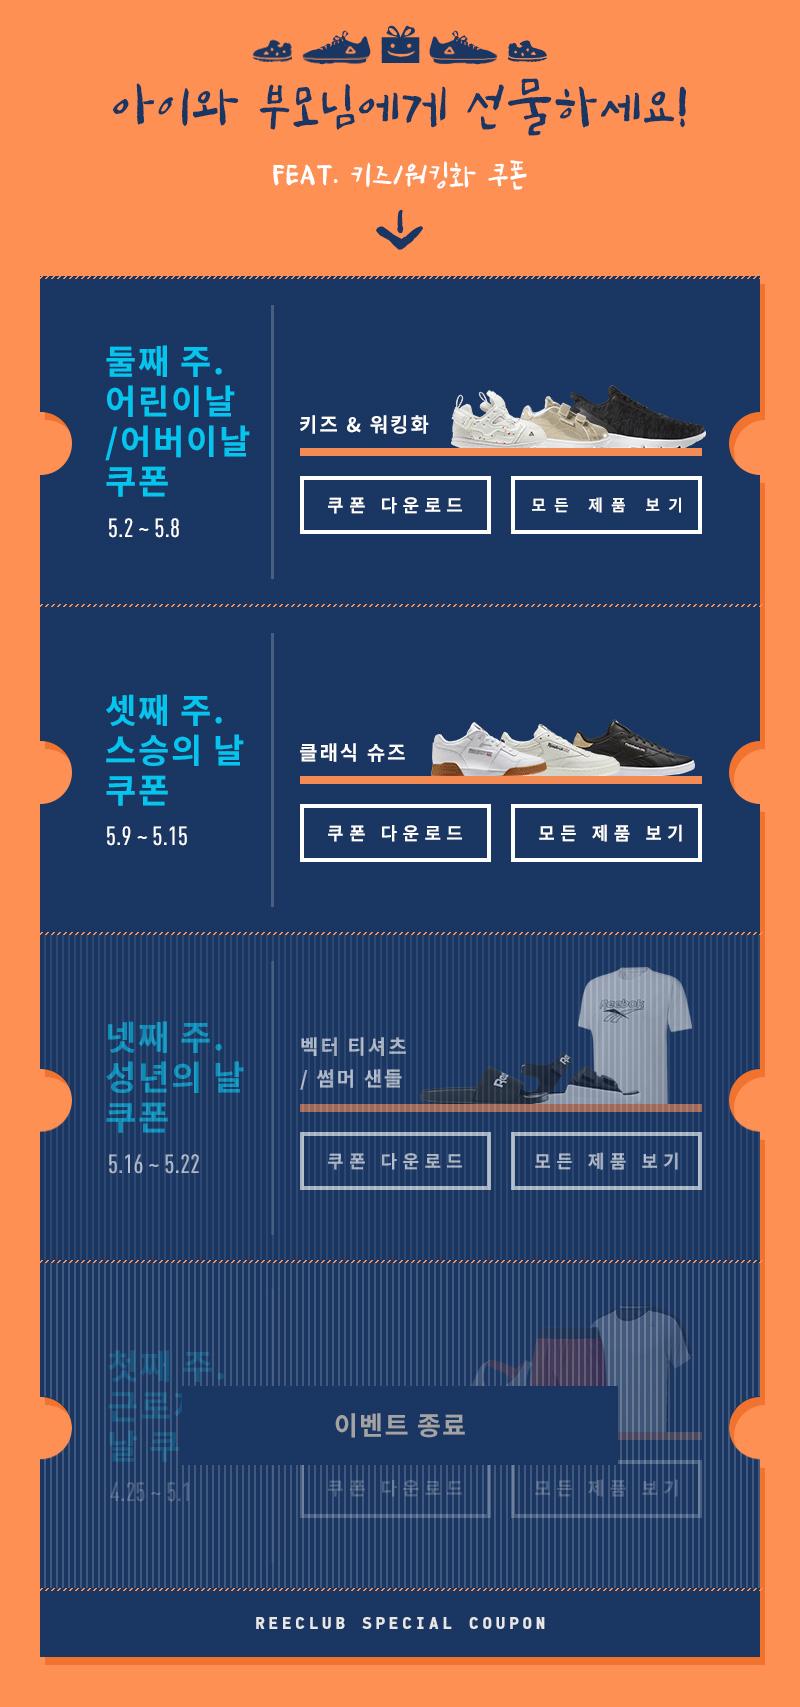
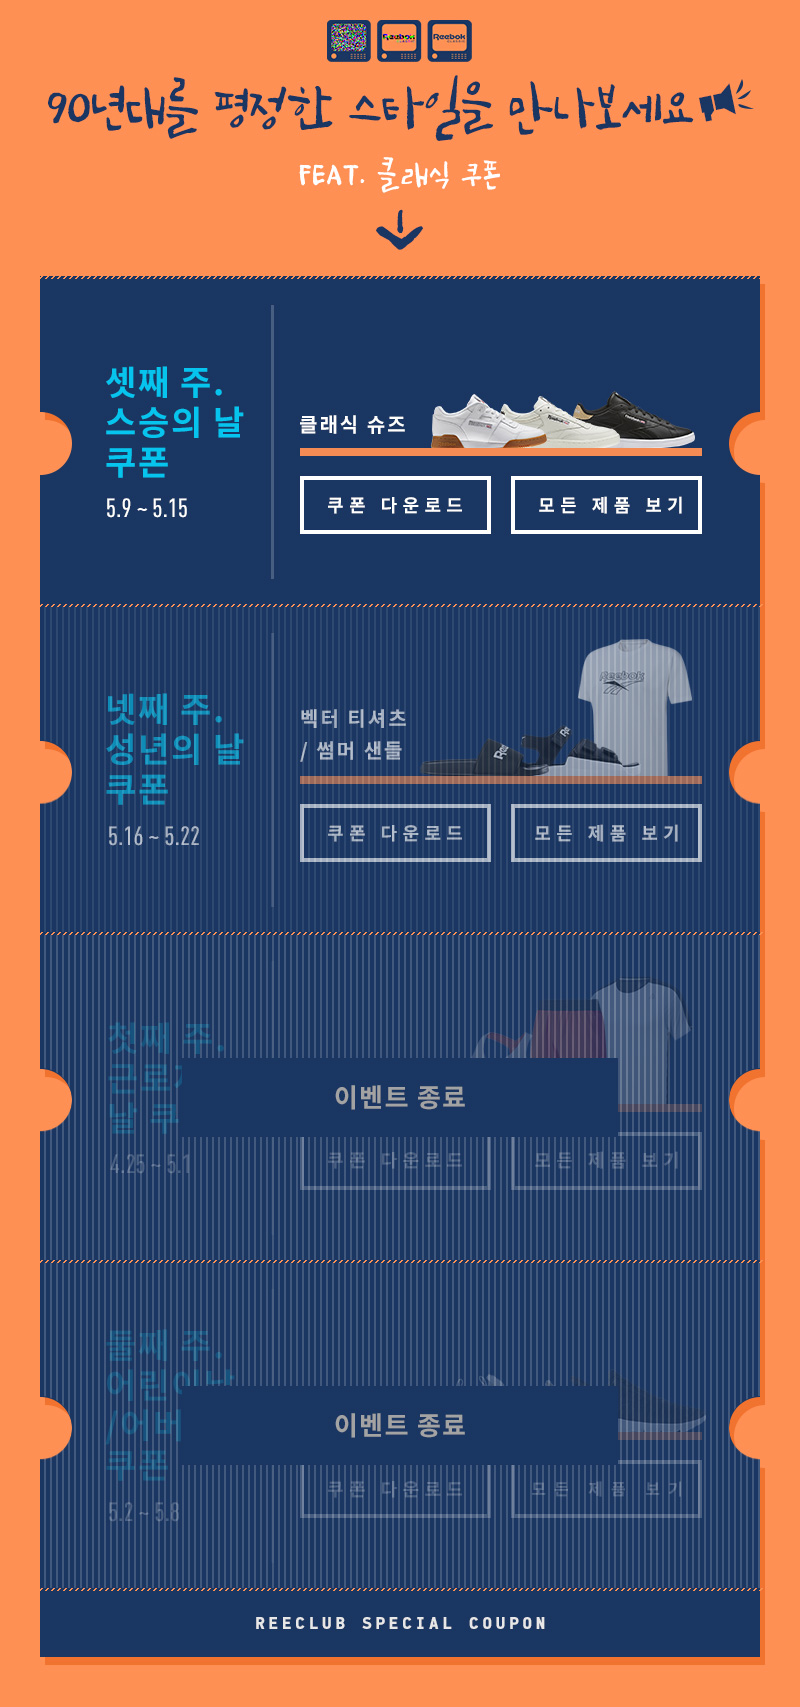
ree_CP_가정의달

diff --git a/mobile/html/reebok/pn/2019Family.html b/mobile/html/reebok/pn/2019Family.html
@@ -22,10 +22,10 @@
 						</div>
 						<div class="cont_container scroll">
 							<img src="/images/reebok/2019/event/family/1904_contContainer_MO.jpg" alt="">
-							<a href="http://m.reebok.co.kr/MO/Club/cponPublMem.action?KEY=B8GXS6OOT9" class="lnk4"></a>
-							<a href="http://shop.reebok.co.kr/RPF070801.action?pageNo=838" class="lnk5"></a>
-							<a href="http://m.reebok.co.kr/MO/Club/cponPublMem.action?KEY=90S94YLPKT" class="lnk6"></a>
-							<a href="http://shop.reebok.co.kr/RPF070801.action?pageNo=839" class="lnk7"></a>
+							<a href="http://m.reebok.co.kr/MO/Club/cponPublMem.action?KEY=90S94YLPKT" class="lnk4"></a>
+							<a href="http://shop.reebok.co.kr/RPF070801.action?pageNo=839" class="lnk5"></a>
+							<!-- <a href="http://m.reebok.co.kr/MO/Club/cponPublMem.action?KEY=90S94YLPKT" class="lnk6"></a>
+							<a href="http://shop.reebok.co.kr/RPF070801.action?pageNo=839" class="lnk7"></a> -->
 							
 							<!-- 3주차
 							http://m.reebok.co.kr/MO/Club/cponPublMem.action?KEY=90S94YLPKT

diff --git a/mobile/html/reebok/2019/event/family/build/index.html b/mobile/html/reebok/2019/event/family/build/index.html
@@ -149,10 +149,10 @@
 					</div>
 					<div class="cont_container scroll">
 						<img src="/images/reebok/2019/event/family/1904_contContainer_MO.jpg" alt="">
-						<a href="http://m.reebok.co.kr/MO/Club/cponPublMem.action?KEY=B8GXS6OOT9" class="lnk4"></a>
-						<a href="http://shop.reebok.co.kr/RPF070801.action?pageNo=838" class="lnk5"></a>
-						<a href="http://m.reebok.co.kr/MO/Club/cponPublMem.action?KEY=90S94YLPKT" class="lnk6"></a>
-						<a href="http://shop.reebok.co.kr/RPF070801.action?pageNo=839" class="lnk7"></a>
+						<a href="http://m.reebok.co.kr/MO/Club/cponPublMem.action?KEY=90S94YLPKT" class="lnk4"></a>
+						<a href="http://shop.reebok.co.kr/RPF070801.action?pageNo=839" class="lnk5"></a>
+						<!-- <a href="http://m.reebok.co.kr/MO/Club/cponPublMem.action?KEY=90S94YLPKT" class="lnk6"></a>
+						<a href="http://shop.reebok.co.kr/RPF070801.action?pageNo=839" class="lnk7"></a> -->
 						
 						<!-- 3주차
 						http://m.reebok.co.kr/MO/Club/cponPublMem.action?KEY=90S94YLPKT

diff --git a/mobile/html/reebok/2019/event/family/index.html b/mobile/html/reebok/2019/event/family/index.html
@@ -147,10 +147,10 @@
 					</div>
 					<div class="cont_container scroll">
 						<img src="/images/reebok/2019/event/family/1904_contContainer_MO.jpg" alt="">
-						<a href="http://m.reebok.co.kr/MO/Club/cponPublMem.action?KEY=B8GXS6OOT9" class="lnk4"></a>
-						<a href="http://shop.reebok.co.kr/RPF070801.action?pageNo=838" class="lnk5"></a>
-						<a href="http://m.reebok.co.kr/MO/Club/cponPublMem.action?KEY=90S94YLPKT" class="lnk6"></a>
-						<a href="http://shop.reebok.co.kr/RPF070801.action?pageNo=839" class="lnk7"></a>
+						<a href="http://m.reebok.co.kr/MO/Club/cponPublMem.action?KEY=90S94YLPKT" class="lnk4"></a>
+						<a href="http://shop.reebok.co.kr/RPF070801.action?pageNo=839" class="lnk5"></a>
+						<!-- <a href="http://m.reebok.co.kr/MO/Club/cponPublMem.action?KEY=90S94YLPKT" class="lnk6"></a>
+						<a href="http://shop.reebok.co.kr/RPF070801.action?pageNo=839" class="lnk7"></a> -->
 						
 						<!-- 3주차
 						http://m.reebok.co.kr/MO/Club/cponPublMem.action?KEY=90S94YLPKT
